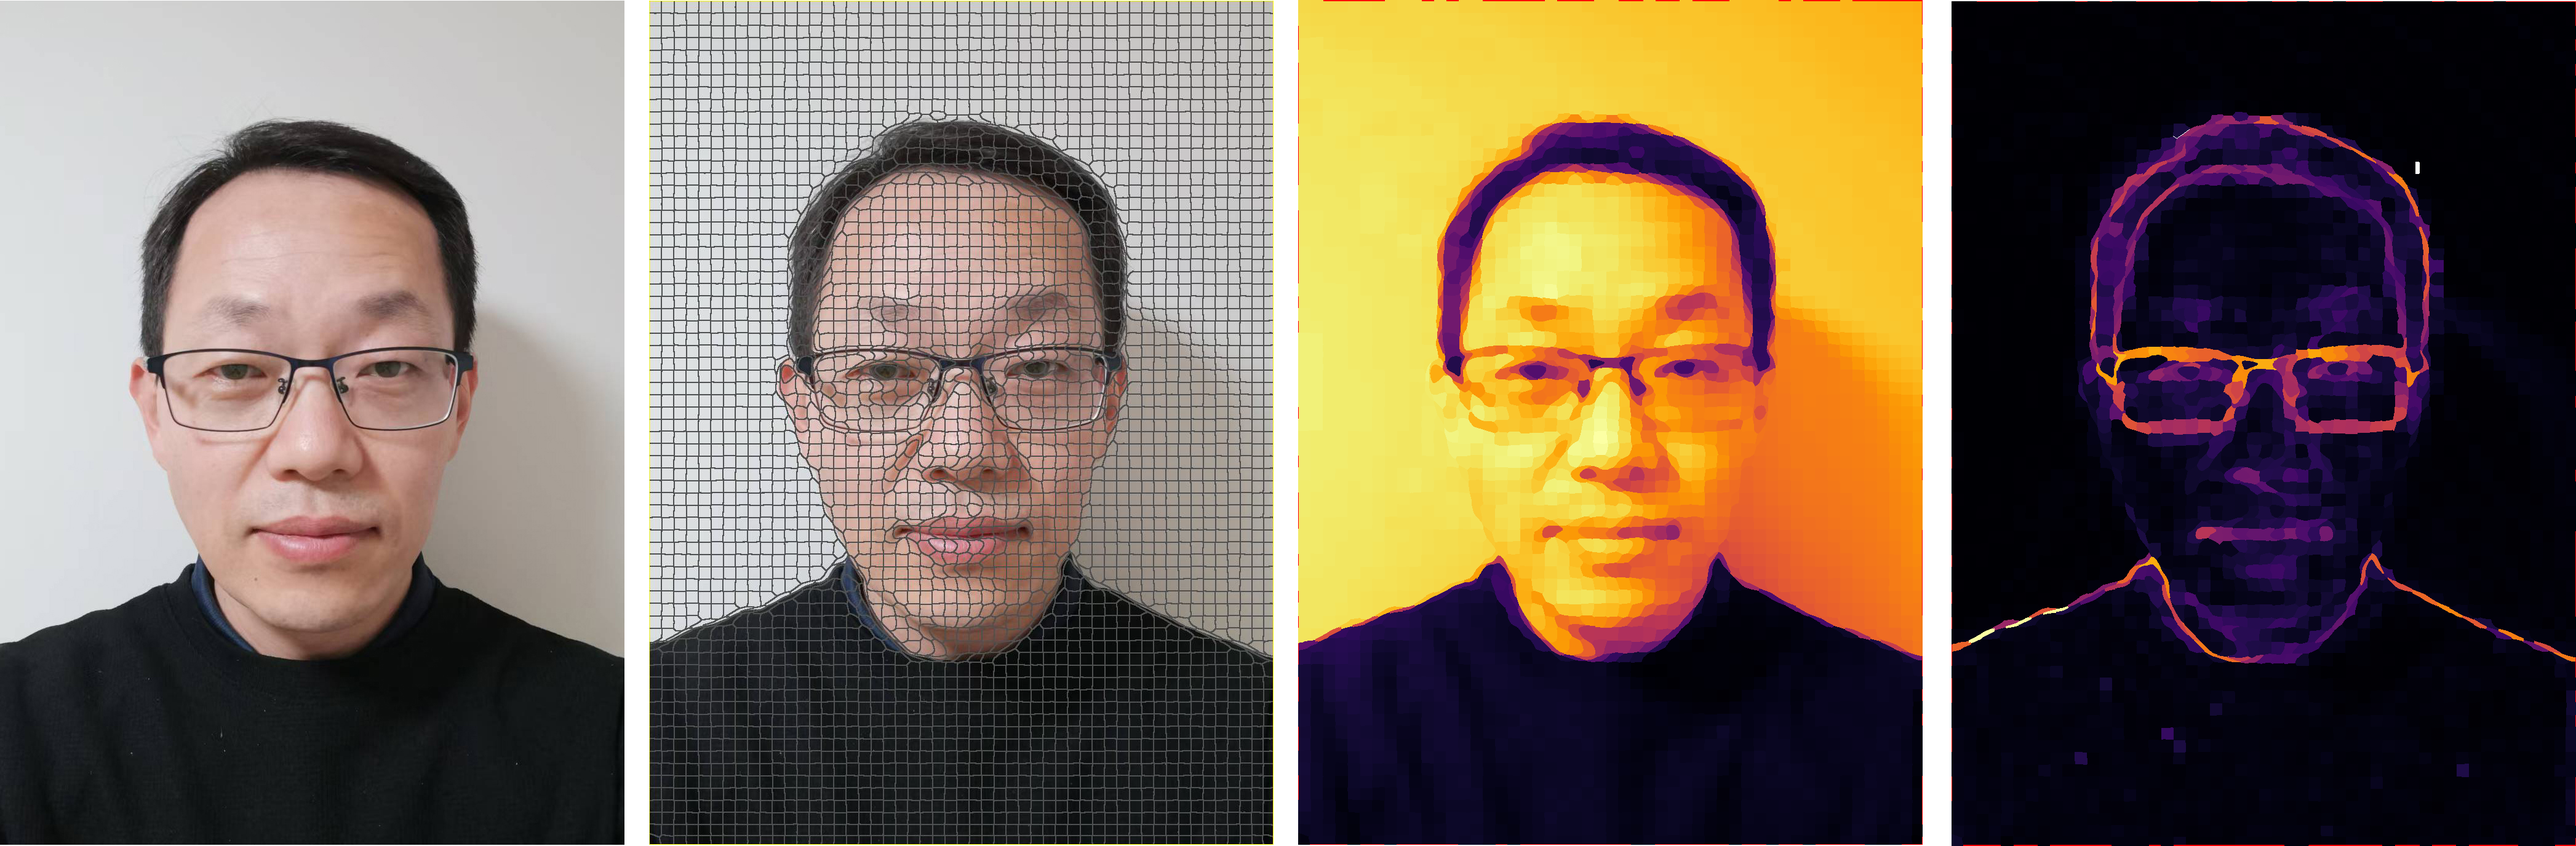
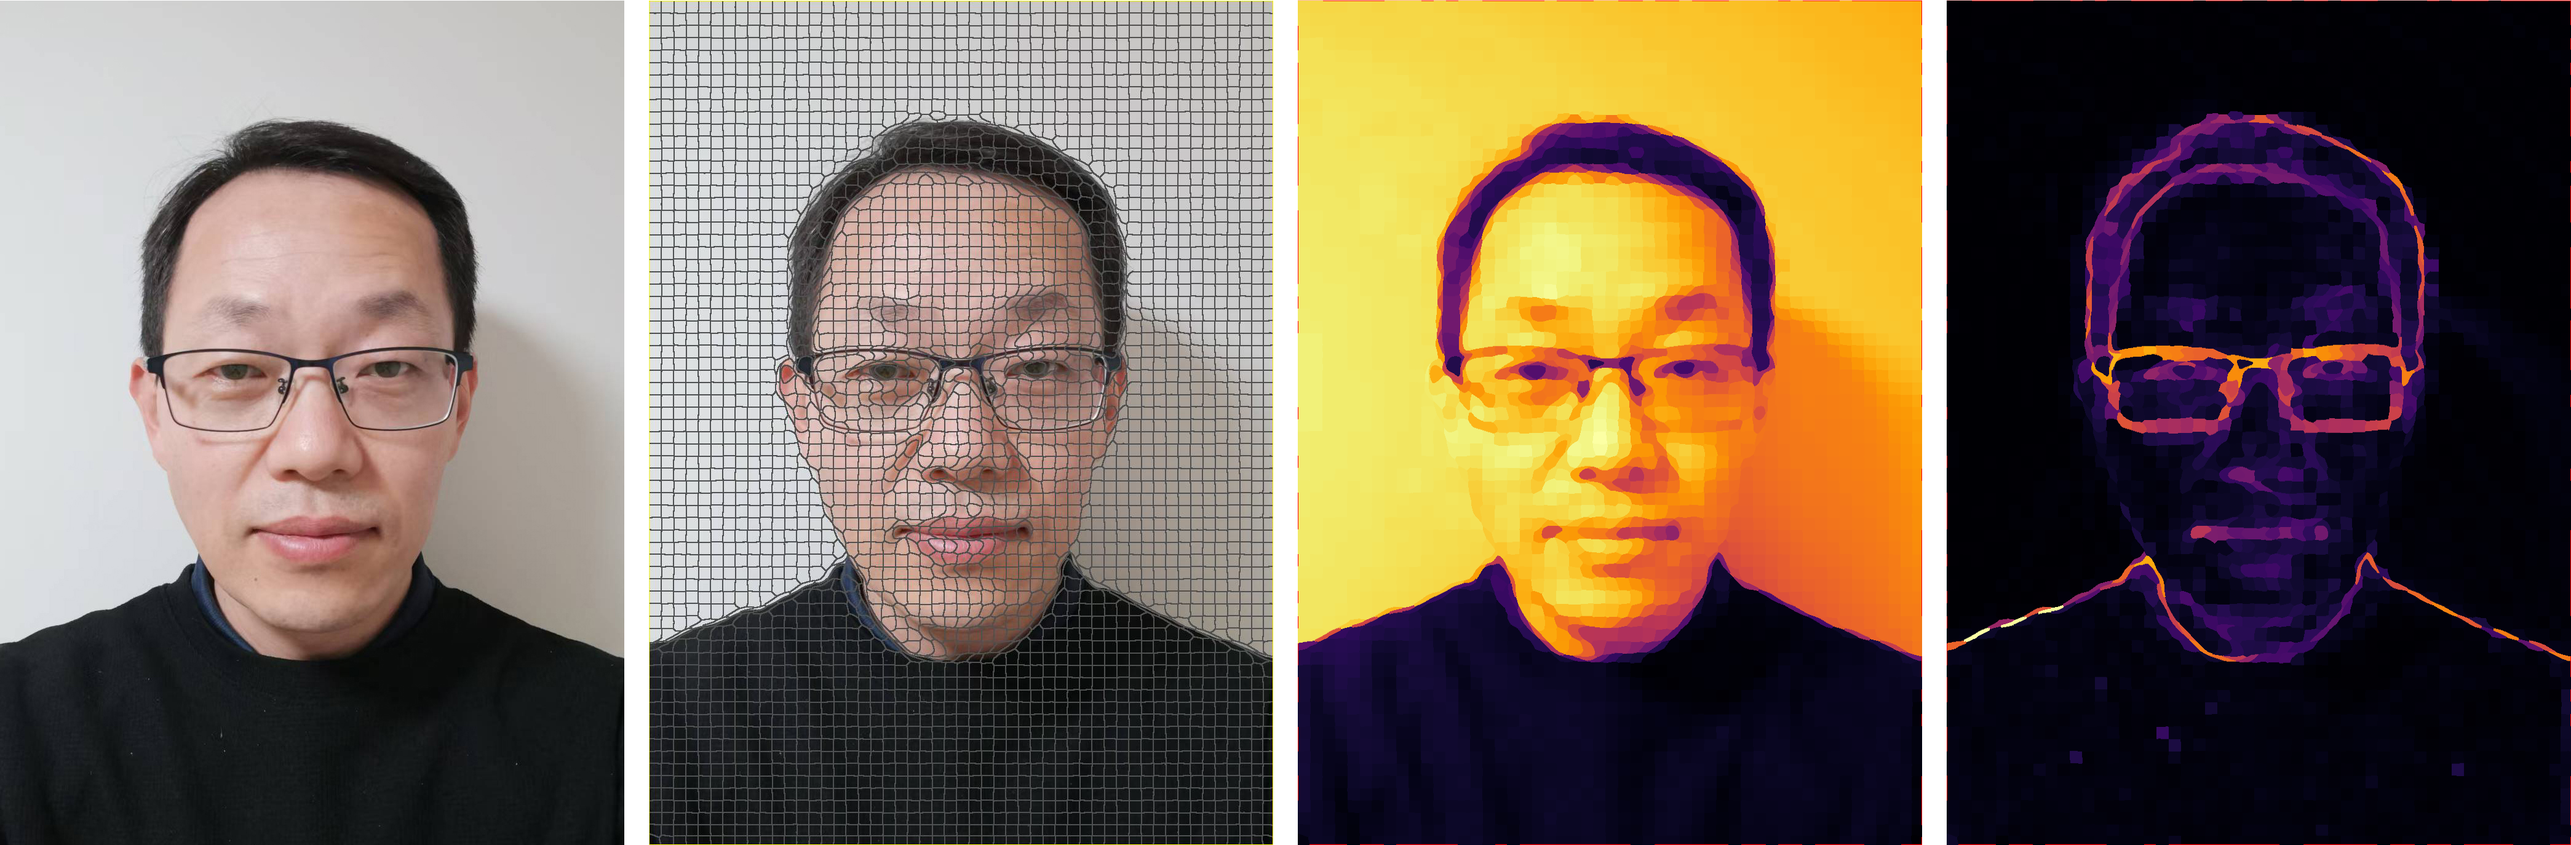
2025-09-29

diff --git a/contact.html b/contact.html
@@ -317,12 +317,24 @@ ul.task-list li input[type="checkbox"] {
 </header>
 
 
+<center>
+<div class="quarto-figure quarto-figure-center" style="width: 100%">
+<figure class="figure">
+<p><img src="images/wukang_multiple.png" class="img-fluid figure-img"></p>
+<figcaption>The right three images were prepared using QuPath v0.6.0.</figcaption>
+</figure>
+</div>
+</center>
 <p><strong>Phone</strong>: +86-15821314790</p>
 <p><strong>Email_1</strong>: <a href="mailto:wu__kang@126.com">wu__kang@126.com</a></p>
 <p><strong>Email_2</strong>: <a href="mailto:wukangx9@gmail.com">wukangx9@gmail.com</a></p>
 <p><strong>Email_3</strong>: <a href="mailto:15821314790@126.com">15821314790@126.com</a></p>
 <p><strong>Wechat</strong>: +86-15821314790, or scan the following QR code:</p>
-<p><img src="images/wukang_wechat_qrcode.png" style="width: 25%; height: auto;"></p>
+<center>
+<img src="images/wukang_wechat_qrcode.png" class="img-fluid" style="width: 25%">
+</center>
+<p><strong>Acknowledgements</strong></p>
+<p>This website was primarily developed based on the guidelines from the <a href="https://ucsb-meds.github.io/creating-quarto-websites/">Creating your personal website using Quarto</a>.</p>
 
 
 

diff --git a/cv.html b/cv.html
@@ -301,6 +301,14 @@ ul.task-list li input[type="checkbox"] {
 
 
 
+<center>
+<div class="quarto-figure quarto-figure-center" style="width: 100%">
+<figure class="figure">
+<p><img src="images/wukang_multiple.png" class="img-fluid figure-img"></p>
+<figcaption>The right three images were prepared using QuPath v0.6.0.</figcaption>
+</figure>
+</div>
+</center>
 <section id="基本信息background" class="level1">
 <h1>1. 基本信息/background</h1>
 <p><strong>姓名</strong>：吴康</p>
